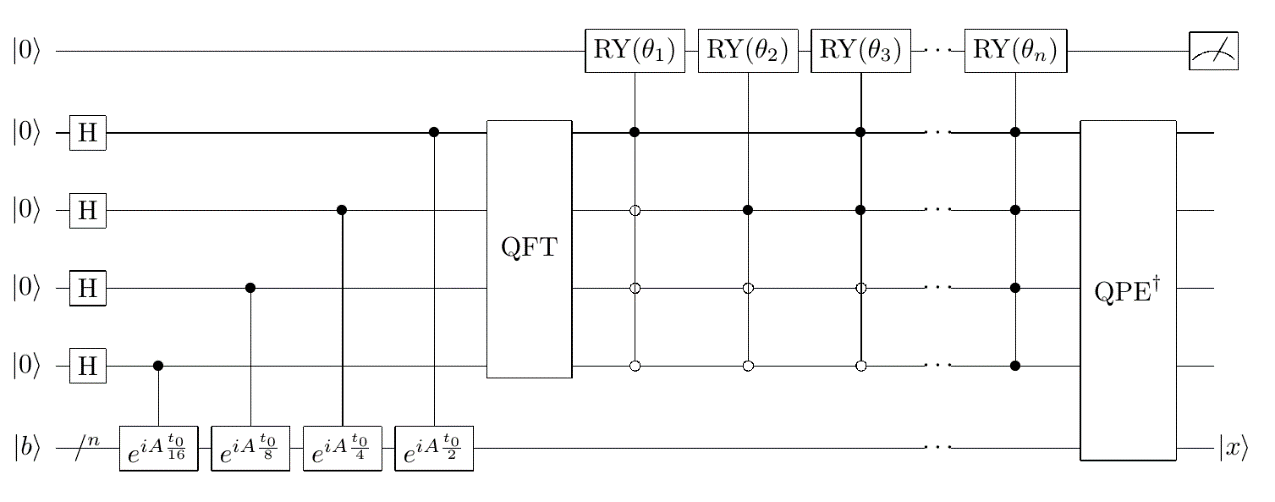
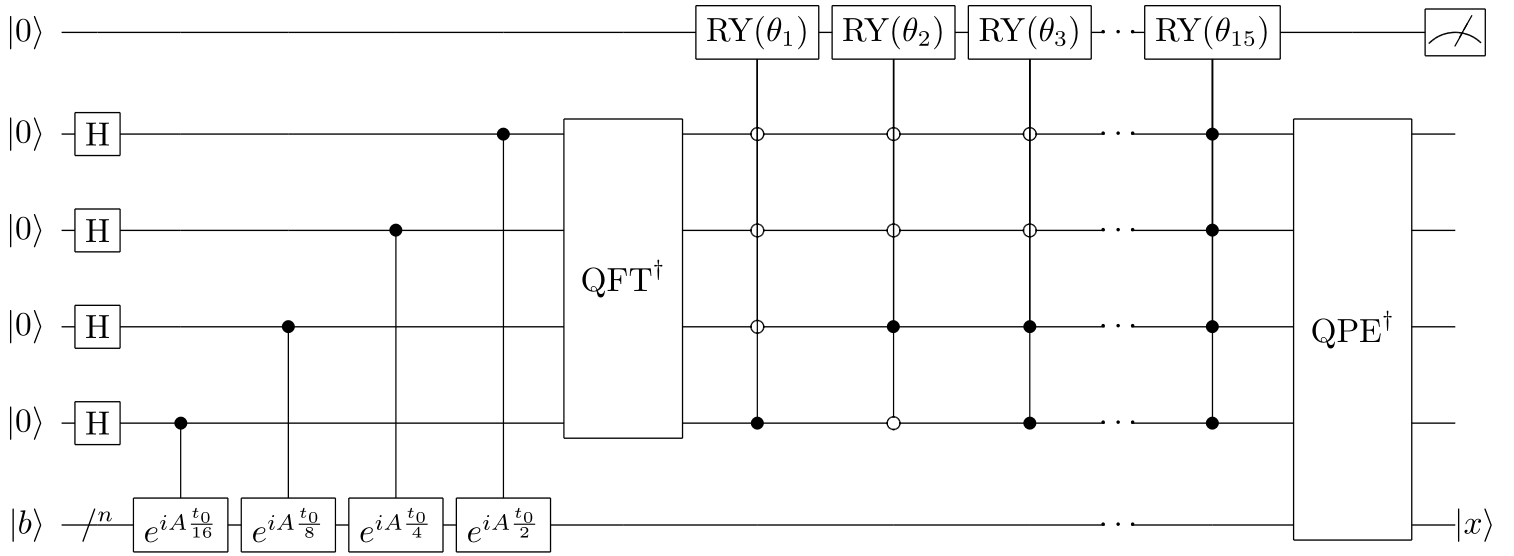
因目前HHL线路函数返回结果不是直接计算结果，调整代码为调用solve接口 修订Hadamard Test线路图、QPE线路图和HHL线路图 修订振幅放大中公式里部分变量字母不统一的问题 更换QPE中的算例为更合适的算例 修订HHL中公式上下标存在的颠倒问题

diff --git a/source/QPE.rst b/source/QPE.rst
@@ -38,6 +38,7 @@ e^{2\pi i\varphi}\left|\psi\right\rangle` 中的 :math:`\varphi`，\
    (C-U^{2^t})(a\left|0\right\rangle+b\left|1\right\rangle)\otimes\left|\psi\right\rangle \ 
    =(a\left|0\right\rangle+e^{2\pi i\varphi2^t}b\left|1\right\rangle)\otimes\left|\psi\right\rangle.
    \end{aligned}
+
 特征值相位 :math:`\varphi` 通过这种受控变换可以提取到振幅中。
 
 特征值相位由振幅转移到基向量
@@ -49,6 +50,7 @@ e^{2\pi i\varphi}\left|\psi\right\rangle` 中的 :math:`\varphi`，\
    (C-U^{2^0})\cdots(C-U^{2^n})\frac{1}{2^\frac{n}{2}}\otimes_{t=1}^n
    (\left|0\right\rangle+\left|1\right\rangle)= (\left|0\right\rangle+e^{2\pi i\varphi2^{1-1}}\
    \left|1\right\rangle)\cdots(\left|0\right\rangle+e^{2\pi i\varphi2^{n-1}}\left|1\right\rangle).
+
 此时辅助比特中的量子态形式与QFT的结果量子态相近，借助IQFT有如下结果：
 
 .. math::
@@ -58,6 +60,7 @@ e^{2\pi i\varphi}\left|\psi\right\rangle` 中的 :math:`\varphi`，\
    \varphi k}\left|k\right\rangle \\ & =\frac{1}{2^n}\Sigma_{k=0}^{2^n-1}\Sigma_{x=0}
    ^{2^n-1}e^{-\frac{2\pi ik}{2^n}\left(x-2^n\varphi\right)}\left|x\right\rangle.
    \end{aligned}
+
 含特征值相位的基向量测量
 ++++
 
@@ -120,15 +123,16 @@ QPE的量子线路图如下所示
       auto qvm = initQuantumMachine(CPU);
       // 申请寄存器并初始化
       QVec qvec = qvm->qAllocMany(1);
-      QVec cqv = qvm->qAllocMany(2);
+      QVec cqv = qvm->qAllocMany(4);
 
       // 提取特征值相位并合并到基向量
       auto prog = createEmptyQProg();
-      prog << H(cqv[0]) << H(cqv[1]);
-      prog << S(qvec[0]);
-      prog << RY(qvec[0], PI / 4).control(cqv[1]);
+      prog << H(cqv[0]) << H(cqv[1]) << H(cqv[2]) << H(cqv[3]);
+      prog << H(qvec[0]) << S(qvec[0]);
       prog << RY(qvec[0], PI / 4).control(cqv[0]);
-      prog << RY(qvec[0], PI / 4).control(cqv[0]);
+      prog << RY(qvec[0], PI / 2).control(cqv[1]);
+      prog << RY(qvec[0], PI).control(cqv[2]);
+      prog << RY(qvec[0], PI * 2).control(cqv[3]);
       prog << QFT(cqv).dagger();
 
       // 以概率方法输出结果量子态的理论值（并非测量）
@@ -144,11 +148,23 @@ QPE的量子线路图如下所示
       return 0;
    }
 
-由前文可知输出结果应当以较大概率得到量子态 :math:`\left|0\right\rangle` 
+由前文可知输出结果应当以接近 :math:`1` 的概率得到量子态 :math:`\left|1111\right\rangle` （即 :math:`-1` ）
 
 .. code-block:: c
 
-   000, 0.821067
-   001, 0.0732233
-   010, 0.0324864
-   011, 0.0732233
+   0000 : 8.02794e-34
+   0001 : 2.62542e-34
+   0010 : 6.32458e-35
+   0011 : 5.83969e-33
+   0100 : 1.17169e-34
+   0101 : 3.98726e-34
+   0110 : 7.14677e-35
+   0111 : 1.35464e-32
+   1000 : 1.17169e-34
+   1001 : 2.62542e-34
+   1010 : 6.32458e-35
+   1011 : 1.13095e-33
+   1100 : 2.01916e-34
+   1101 : 3.98726e-34
+   1110 : 1.04109e-33
+   1111 : 1

diff --git a/source/AmplitudeAmplification.rst b/source/AmplitudeAmplification.rst
@@ -7,7 +7,7 @@
 ****
 
 对于某个已知大小的可二元分类且标准 :math:`f` 确定的有限集合 :math:`\Omega`，基于 :math:`f` 可以将集合中的任一元素\
-:math:`\left|\psi\right\rangle` 表示为两个正交基态 :math:`\left|\psi_0\right\rangle,\left|\psi_1\right\rangle` 的线性组合。
+:math:`\left|\psi\right\rangle` 表示为两个正交基态 :math:`\left|\varphi_0\right\rangle,\left|\varphi_1\right\rangle` 的线性组合。
 
 .. math::
 
@@ -16,8 +16,8 @@
    \left|\varphi_0\right\rangle=\left|\varphi_1^\bot\right\rangle.
    \end{aligned}
 
-振幅放大量子线路可以将叠加态 :math:`\left|\psi\right\rangle` 的表达式中 :math:`\left|\psi_1\right\rangle` 的振幅放大，从而得到\
-一个结果量子态，能够以大概率测量得到目标量子态 :math:`\left|\psi_1\right\rangle`。
+振幅放大量子线路可以将叠加态 :math:`\left|\psi\right\rangle` 的表达式中 :math:`\left|\varphi_1\right\rangle` 的振幅放大，从而得到\
+一个结果量子态，能够以大概率测量得到目标量子态 :math:`\left|\varphi_1\right\rangle`。
 
 假设我们可以构造出某种量子门操作的组合，记该组合为振幅放大算子 :math:`Q` ，将 :math:`Q` 作用 :math:`k` 次于量子态\
 :math:`\left|\psi\right\rangle` 上得到形如下式的量子态
@@ -44,7 +44,7 @@
 .. math::
 
    \begin{aligned}
-   P_1=I-2\left|\psi_1\right\rangle \left\langle\psi_1\right|,
+   P_1=I-2\left|\varphi_1\right\rangle \left\langle\varphi_1\right|,
    P=I-2\left|\psi\right\rangle \left\langle\psi\right|,
    Q=-PP_1.
    \end{aligned}
@@ -80,7 +80,7 @@
 ****
 
 取 :math:`\Omega=\{0,1\}, \left|\psi\right\rangle = \sin{\frac{\pi}{6}}\left|1\right\rangle+
-\cos{\frac{\pi}{6}}\left|1\right\rangle,\ P_1=I-2\left|1\right\rangle \left\langle 1\right|=Z,
+\cos{\frac{\pi}{6}}\left|0\right\rangle,\ P_1=I-2\left|1\right\rangle \left\langle 1\right|=Z,
 P=I-2\left|\psi\right\rangle \left\langle\psi\right|`，
 
 振幅放大量子线路的相应代码实例如下
